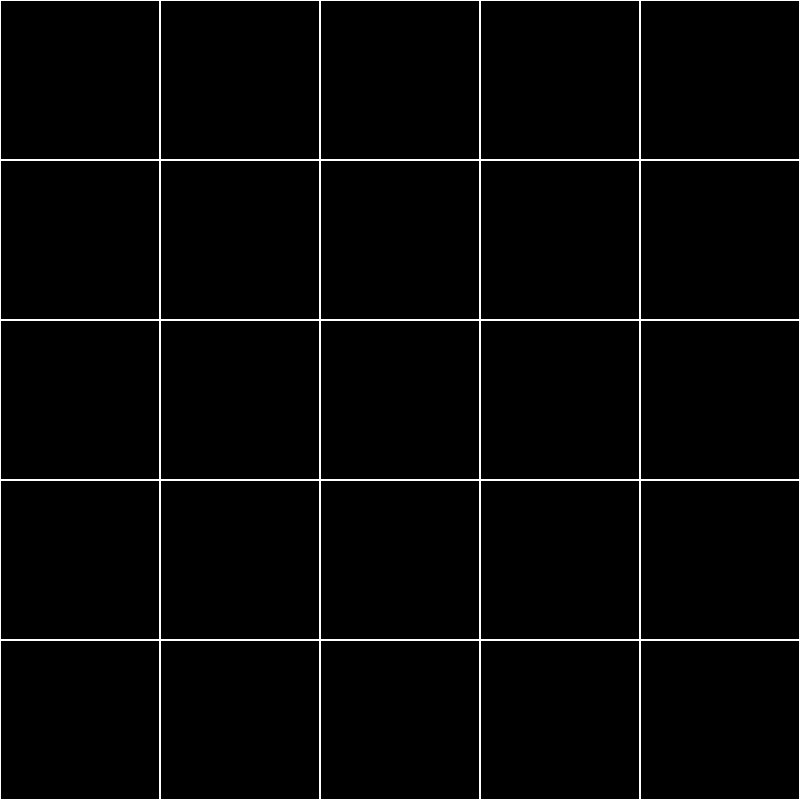
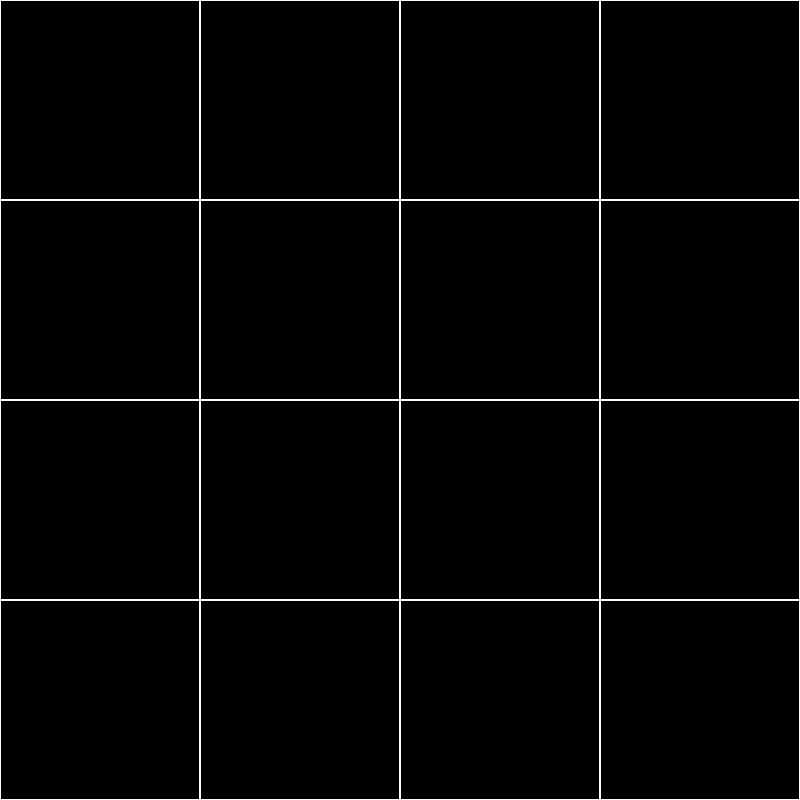
Out of bounds and key press timings fixed

diff --git a/Murdering_Murphy/murdering_murphy.py b/Murdering_Murphy/murdering_murphy.py
@@ -19,7 +19,7 @@ WINDOW_HEIGHT = 800
 window_size = (WINDOW_WIDTH, WINDOW_HEIGHT)
 
 # Gridmap parameters
-grid_width = grid_height = 5
+grid_width = grid_height = 4
 grid_margin = 0
 cell_size = int(WINDOW_HEIGHT / grid_height) if WINDOW_WIDTH > WINDOW_HEIGHT else int(WINDOW_WIDTH / grid_width)
 
@@ -60,28 +60,32 @@ class Player(pygame.sprite.Sprite):
     def update(self, pressed_keys):
         global player_x, player_y
         global gamemap
-        if pressed_keys[K_UP]:
+        if pressed_keys[K_UP] and player_y > 0:
+            time.sleep(0.25)
             self.rect.move_ip(0, -cell_size)
             gamemap[player_y][player_x] = 0
             player_y -= 1
             gamemap[player_y][player_x] = 1
             print(f"player is in: {player_x},{player_y}")
             [print(f"{gamemap[i]}\n") for i in range(grid_height)]
-        if pressed_keys[K_DOWN]:
+        if pressed_keys[K_DOWN] and player_y < grid_height - 1:
+            time.sleep(0.25)
             self.rect.move_ip(0, cell_size)
             gamemap[player_y][player_x] = 0
             player_y += 1
             gamemap[player_y][player_x] = 1
             print(f"player is in: {player_x},{player_y}")
             [print(f"{gamemap[i]}\n") for i in range(grid_height)]
-        if pressed_keys[K_LEFT]:
+        if pressed_keys[K_LEFT] and player_x > 0:
+            time.sleep(0.25)
             self.rect.move_ip(-cell_size, 0)
             gamemap[player_y][player_x] = 0
             player_x -= 1
             gamemap[player_y][player_x] = 1
             print(f"player is in: {player_x},{player_y}")
             [print(f"{gamemap[i]}\n") for i in range(grid_height)]
-        if pressed_keys[K_RIGHT]:
+        if pressed_keys[K_RIGHT] and player_x < grid_width - 1:
+            time.sleep(0.25)
             self.rect.move_ip(cell_size, 0)
             gamemap[player_y][player_x] = 0
             player_x += 1
@@ -134,7 +138,6 @@ while running:
     for event in pygame.event.get():
         # Did the user hit a key?
         if event.type == KEYDOWN:
-            time.sleep(0.1)
             # Was it the Escape key? If so, stop the loop
             if event.key == K_ESCAPE:
                 running = False
